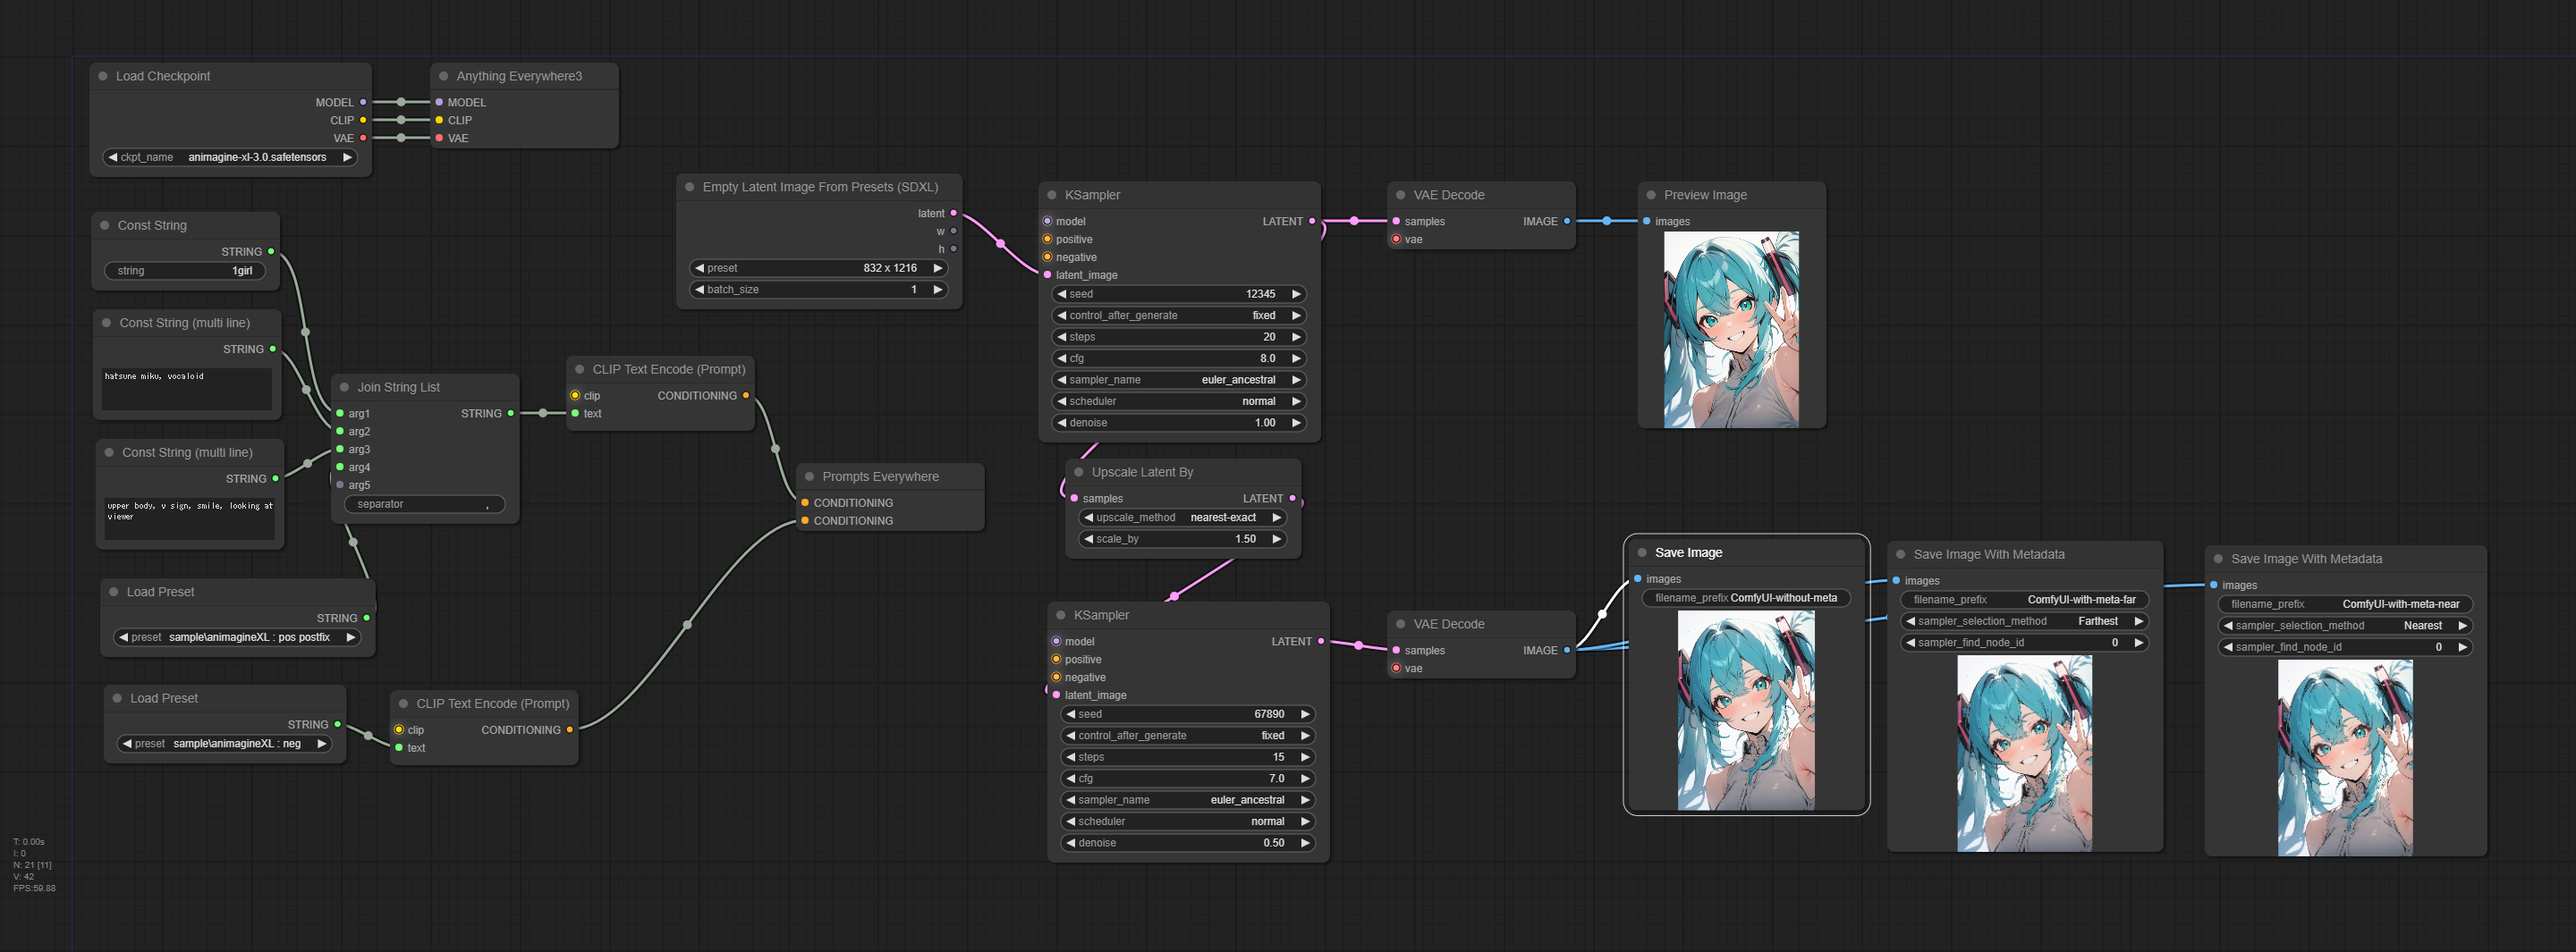
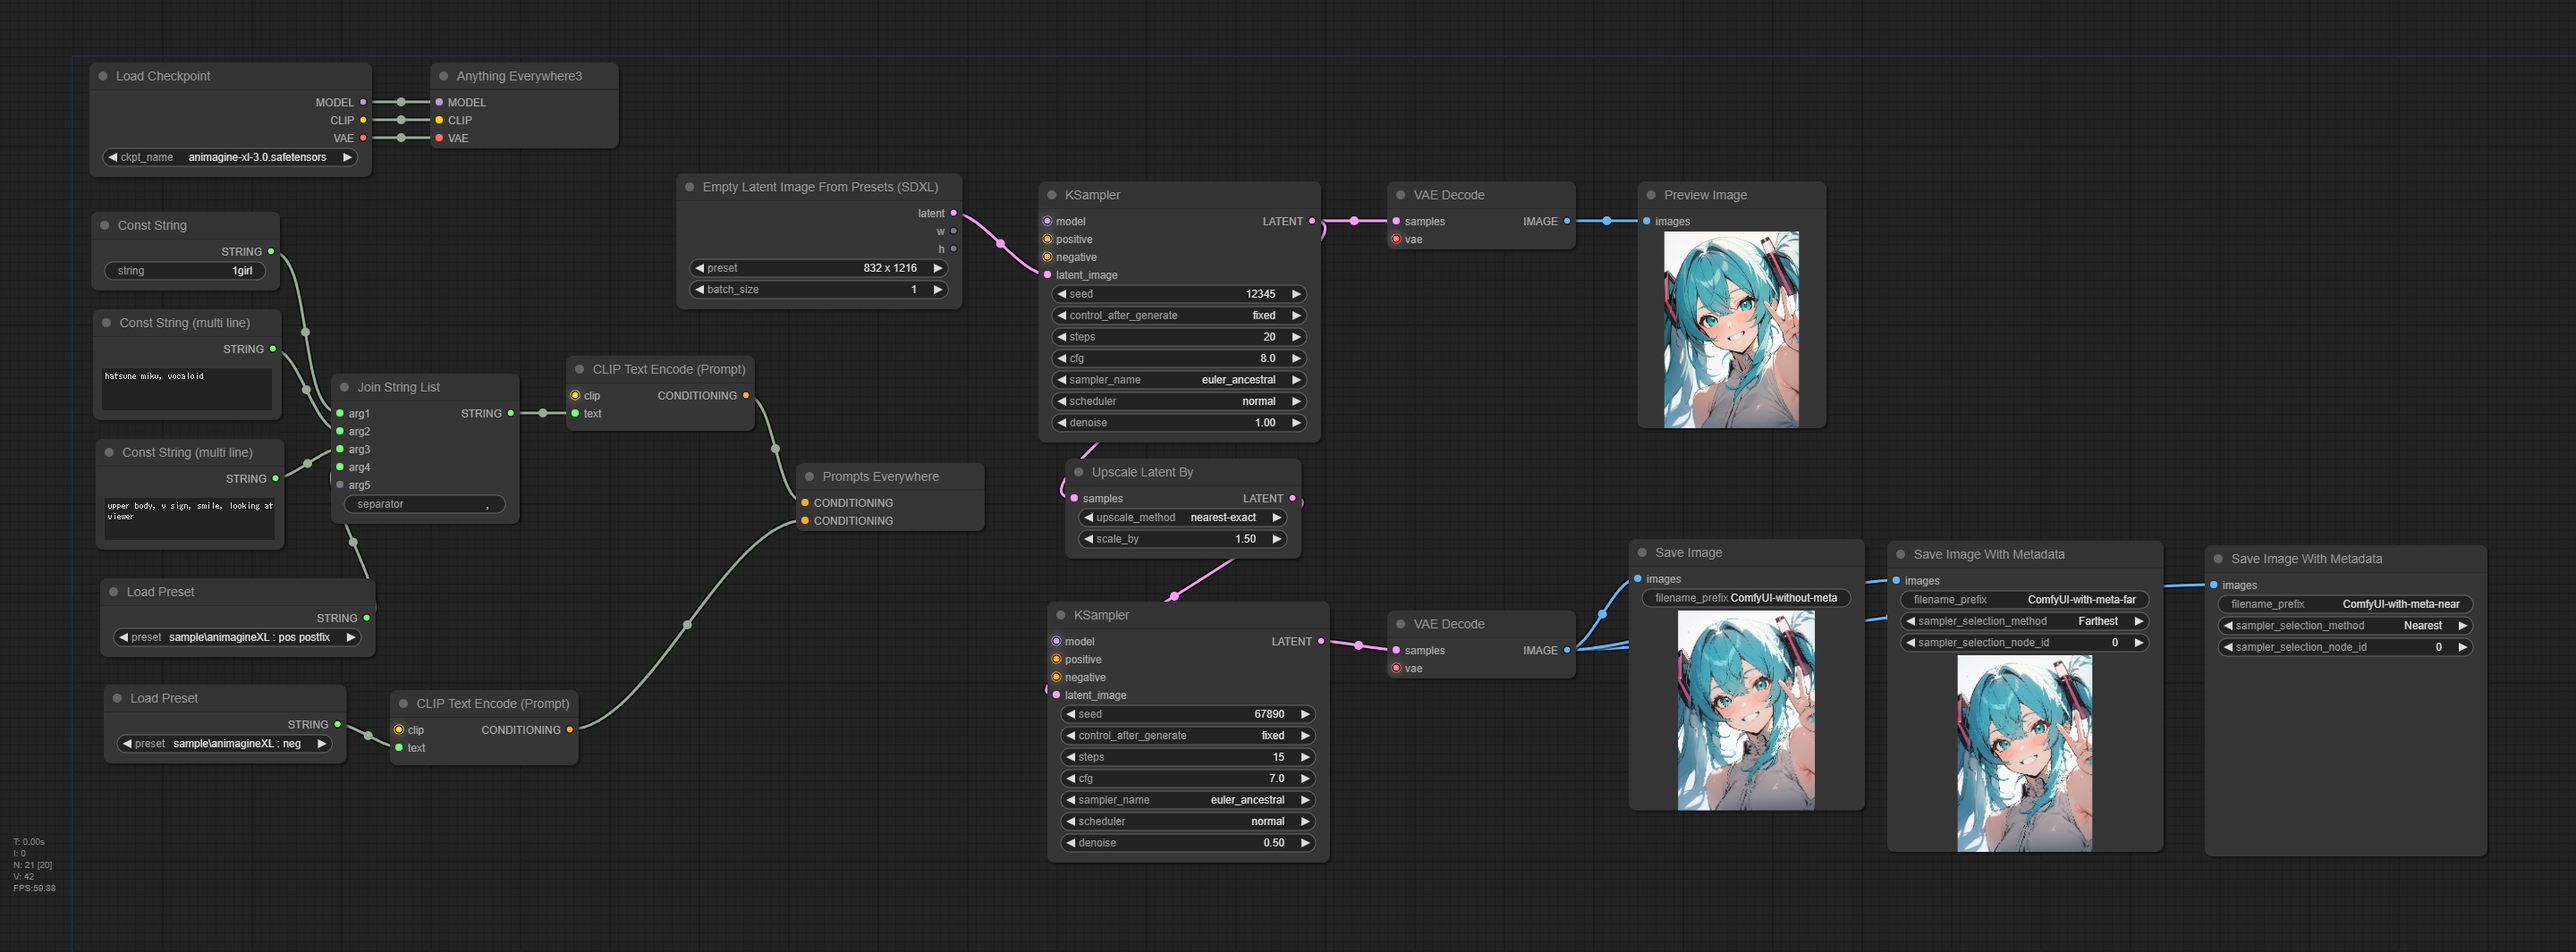
Rename to sampler selection node id

Changed region(s): [[0.875, 0.6817, 0.9375, 0.8986], [0.6562, 0.7127, 0.6875, 0.8056], [0.625, 0.5577, 0.6875, 0.5887]]

diff --git a/py/nodes/node.py b/py/nodes/node.py
@@ -32,7 +32,7 @@ class SaveImageWithMetaData(BaseNode):
                 "images": ("IMAGE",),
                 "filename_prefix": ("STRING", {"default": "ComfyUI"}),
                 "sampler_selection_method": (SAMPLER_SELECTION_METHOD,),
-                "sampler_find_node_id": (
+                "sampler_selection_node_id": (
                     "INT",
                     {"default": 0, "min": 0, "max": 999999999, "step": 1},
                 ),
@@ -50,7 +50,7 @@ class SaveImageWithMetaData(BaseNode):
         images,
         filename_prefix="ComfyUI",
         sampler_selection_method=SAMPLER_SELECTION_METHOD[0],
-        sampler_find_node_id=0,
+        sampler_selection_node_id=0,
         prompt=None,
         extra_pnginfo=None,
     ):
@@ -69,7 +69,7 @@ class SaveImageWithMetaData(BaseNode):
             img = Image.fromarray(np.clip(i, 0, 255).astype(np.uint8))
 
             pnginfo_dict = self.gen_pnginfo(
-                sampler_selection_method, sampler_find_node_id
+                sampler_selection_method, sampler_selection_node_id
             )
             if len(images) >= 2:
                 pnginfo_dict["Batch index"] = index
@@ -102,7 +102,7 @@ class SaveImageWithMetaData(BaseNode):
         return {"ui": {"images": results}}
 
     @classmethod
-    def gen_pnginfo(cls, sampler_selection_method, sampler_find_node_id):
+    def gen_pnginfo(cls, sampler_selection_method, sampler_selection_node_id):
         # get all node inputs
         inputs = Capture.get_inputs()
 
@@ -111,7 +111,9 @@ class SaveImageWithMetaData(BaseNode):
             hook.current_node_id, hook.current_prompt
         )
         sampler_node_id = Trace.find_sampler_node_id(
-            trace_tree_from_this_node, sampler_selection_method, sampler_find_node_id
+            trace_tree_from_this_node,
+            sampler_selection_method,
+            sampler_selection_node_id,
         )
 
         # get inputs before sampler node
